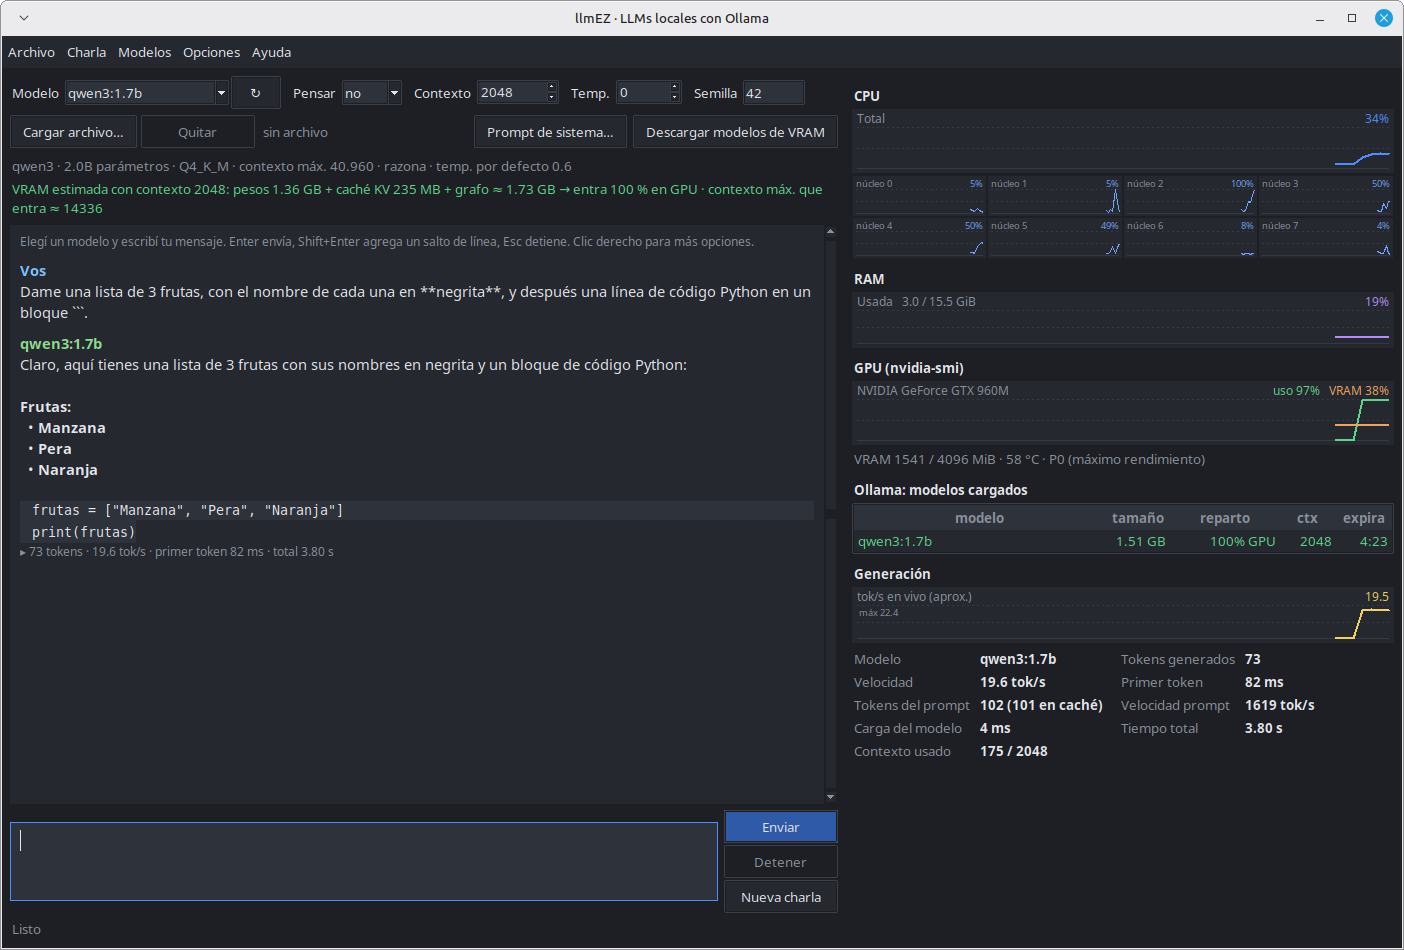
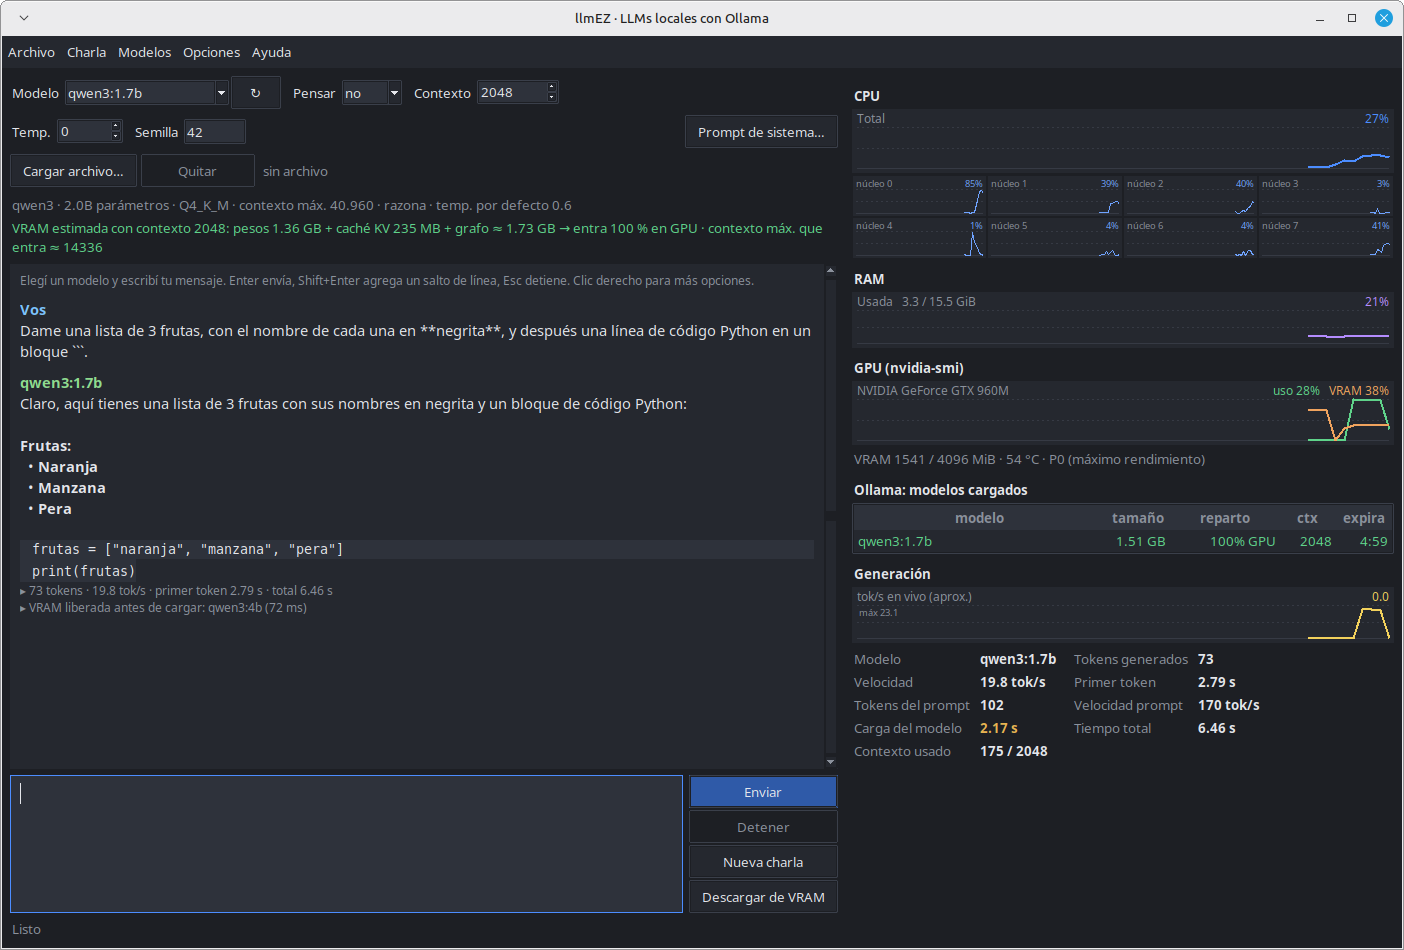
Ventana chica y configuración dañada: arreglos encontrados probando
- Con la ventana en el tamaño mínimo (1000x640) desaparecían la entrada
  y los botones Enviar/Detener: ahora se anclan abajo antes que el área
  de charla. Los controles de arriba pasan a tres filas cortas y
  'Descargar de VRAM' va a la columna de botones.
- El monitor tiene barra de desplazamiento cuando no entra a lo alto
  (la rueda del mouse solo lo mueve con el puntero encima).
- Un settings.json con tipos inválidos (geometría basura, 'sí' en lugar
  de true, null) impedía arrancar: cada valor se valida contra el tipo
  del valor por defecto y se descarta si no corresponde.
- Se restaura solo el tamaño de la ventana, no la posición (podía caer
  en un monitor que ya no está).
- Capturas del README actualizadas.

diff --git a/llmez/chat_panel.py b/llmez/chat_panel.py
@@ -117,32 +117,32 @@ class ChatPanel(ttk.Frame):
         self.ctx_var = tk.StringVar(value=str(s["num_ctx"]))
         self.ctx_spin = ttk.Spinbox(row1, textvariable=self.ctx_var, width=7,
                                     values=C.NUM_CTX_CHOICES)
-        self.ctx_spin.pack(side="left", padx=(4, 10))
+        self.ctx_spin.pack(side="left", padx=(4, 0))
         self.ctx_var.trace_add("write", lambda *a: self.refresh_estimate())
 
-        ttk.Label(row1, text="Temp.").pack(side="left")
+        # Tres filas cortas en vez de dos largas: entran en la ventana mínima.
+        row2 = ttk.Frame(self)
+        row2.pack(fill="x", pady=(6, 0))
+        ttk.Label(row2, text="Temp.").pack(side="left")
         self.temp_var = tk.StringVar(value=s["temperature"])
-        self.temp_spin = ttk.Spinbox(row1, textvariable=self.temp_var, width=5,
+        self.temp_spin = ttk.Spinbox(row2, textvariable=self.temp_var, width=5,
                                      from_=0.0, to=2.0, increment=0.1, format="%.1f")
         self.temp_spin.pack(side="left", padx=(4, 10))
-
-        ttk.Label(row1, text="Semilla").pack(side="left")
+        ttk.Label(row2, text="Semilla").pack(side="left")
         self.seed_var = tk.StringVar(value=s["seed"])
-        self.seed_entry = ttk.Entry(row1, textvariable=self.seed_var, width=7)
+        self.seed_entry = ttk.Entry(row2, textvariable=self.seed_var, width=7)
         self.seed_entry.pack(side="left", padx=(4, 0))
+        ttk.Button(row2, text="Prompt de sistema…",
+                   command=self.edit_system_prompt).pack(side="right")
 
-        row2 = ttk.Frame(self)
-        row2.pack(fill="x", pady=(6, 2))
-        ttk.Button(row2, text="Cargar archivo…", command=self.load_file).pack(side="left")
-        self.remove_file_btn = ttk.Button(row2, text="Quitar", command=self.remove_file,
+        row3 = ttk.Frame(self)
+        row3.pack(fill="x", pady=(6, 2))
+        ttk.Button(row3, text="Cargar archivo…", command=self.load_file).pack(side="left")
+        self.remove_file_btn = ttk.Button(row3, text="Quitar", command=self.remove_file,
                                           state="disabled")
         self.remove_file_btn.pack(side="left", padx=(4, 6))
-        self.file_label = ttk.Label(row2, text="sin archivo", style="Muted.TLabel")
+        self.file_label = ttk.Label(row3, text="sin archivo", style="Muted.TLabel")
         self.file_label.pack(side="left")
-        ttk.Button(row2, text="Descargar modelos de VRAM",
-                   command=self.unload_models).pack(side="right")
-        ttk.Button(row2, text="Prompt de sistema…",
-                   command=self.edit_system_prompt).pack(side="right", padx=6)
 
         # Info del modelo y estimación de VRAM
         self.info_label = ttk.Label(self, text="", style="Muted.TLabel", anchor="w")
@@ -186,28 +186,31 @@ class ChatPanel(ttk.Frame):
         self.chat.bind("<Button-3>", lambda e: self.menu.tk_popup(e.x_root, e.y_root))
 
         # Entrada y botones
+        # La entrada y el estado se anclan abajo *antes* que el área de la charla:
+        # si falta alto, se achica la charla y no desaparecen los botones.
+        self.status = ttk.Label(self, text="", style="Muted.TLabel", anchor="w")
+        self.status.pack(side="bottom", fill="x", pady=(4, 0), before=box)
         bottom = ttk.Frame(self)
-        bottom.pack(fill="x", pady=(6, 0))
+        bottom.pack(side="bottom", fill="x", pady=(6, 0), before=box)
         self.input = tk.Text(bottom, height=3, wrap="word", bg=C.FIELD, fg=C.FG,
                              font=text_font, insertbackground=C.FG, relief="flat",
                              padx=8, pady=6, highlightthickness=1,
                              highlightbackground=C.BORDER, highlightcolor=C.ACCENT)
-        self.input.pack(side="left", fill="x", expand=True)
         self.input.bind("<Return>", self._on_enter)
         self.input.bind("<Escape>", lambda e: self.stop())
         self.chat.bind("<Escape>", lambda e: self.stop())
 
         btns = ttk.Frame(bottom)
-        btns.pack(side="left", padx=(6, 0), fill="y")
+        btns.pack(side="right", padx=(6, 0), fill="y")  # antes que la entrada, que se expande
+        self.input.pack(side="left", fill="both", expand=True)
         self.send_btn = ttk.Button(btns, text="Enviar", style="Accent.TButton",
                                    command=self.send)
         self.send_btn.pack(fill="x")
         self.stop_btn = ttk.Button(btns, text="Detener", command=self.stop, state="disabled")
         self.stop_btn.pack(fill="x", pady=2)
         ttk.Button(btns, text="Nueva charla", command=self.new_chat).pack(fill="x")
-
-        self.status = ttk.Label(self, text="", style="Muted.TLabel", anchor="w")
-        self.status.pack(fill="x", pady=(4, 0))
+        ttk.Button(btns, text="Descargar de VRAM", command=self.unload_models).pack(
+            fill="x", pady=(2, 0))
         self.input.focus_set()
 
     def _append(self, text, *tags):

diff --git a/llmez/monitor_panel.py b/llmez/monitor_panel.py
@@ -8,6 +8,7 @@ import psutil
 from . import config as C
 from .chat_panel import fmt_seconds
 from .widgets.line_chart import LineChart
+from .widgets.scroll_frame import ScrollFrame
 
 GIB = 1024 ** 3
 PSTATES = {"P0": "máximo rendimiento", "P2": "alto", "P5": "medio", "P8": "reposo",
@@ -23,14 +24,16 @@ def _expires_in(iso):
         return None
 
 
-class MonitorPanel(ttk.Frame):
+class MonitorPanel(ScrollFrame):
+    """Los widgets van en self.body: con la ventana chica aparece una barra de desplazamiento."""
+
     def __init__(self, master):
         super().__init__(master, padding=(4, 8, 8, 8))
 
         self._section("CPU")
-        self.cpu_chart = LineChart(self, "Total", [("total", C.CPU_COLOR)], height=64)
+        self.cpu_chart = LineChart(self.body, "Total", [("total", C.CPU_COLOR)], height=64)
         self.cpu_chart.pack(fill="x")
-        cores = ttk.Frame(self)
+        cores = ttk.Frame(self.body)
         cores.pack(fill="x", pady=(2, 0))
         cols = 4
         self.core_charts = []
@@ -41,19 +44,19 @@ class MonitorPanel(ttk.Frame):
             self.core_charts.append(ch)
 
         self._section("RAM")
-        self.ram_chart = LineChart(self, "Usada", [("ram", C.RAM_COLOR)], height=56)
+        self.ram_chart = LineChart(self.body, "Usada", [("ram", C.RAM_COLOR)], height=56)
         self.ram_chart.pack(fill="x")
 
         self._section("GPU (nvidia-smi)")
-        self.gpu_chart = LineChart(self, "", [("uso", C.GPU_COLOR), ("VRAM", C.VRAM_COLOR)],
+        self.gpu_chart = LineChart(self.body, "", [("uso", C.GPU_COLOR), ("VRAM", C.VRAM_COLOR)],
                                    height=64)
         self.gpu_chart.pack(fill="x")
-        self.gpu_info = ttk.Label(self, text="esperando datos…", style="Muted.TLabel")
+        self.gpu_info = ttk.Label(self.body, text="esperando datos…", style="Muted.TLabel")
         self.gpu_info.pack(fill="x", pady=(2, 0))
 
         self._section("Ollama: modelos cargados")
         cols = ("modelo", "tamaño", "reparto", "ctx", "expira")
-        self.tree = ttk.Treeview(self, columns=cols, show="headings", height=3,
+        self.tree = ttk.Treeview(self.body, columns=cols, show="headings", height=3,
                                  selectmode="none")
         widths = {"modelo": 120, "tamaño": 64, "reparto": 110, "ctx": 56, "expira": 56}
         for c in cols:
@@ -66,10 +69,10 @@ class MonitorPanel(ttk.Frame):
         self.tree.pack(fill="x")
 
         self._section("Generación")
-        self.tok_chart = LineChart(self, "tok/s en vivo (aprox.)", [("tok/s", C.TOKS_COLOR)],
+        self.tok_chart = LineChart(self.body, "tok/s en vivo (aprox.)", [("tok/s", C.TOKS_COLOR)],
                                    y_max=None, fmt="{:.1f}", height=56)
         self.tok_chart.pack(fill="x")
-        grid = ttk.Frame(self)
+        grid = ttk.Frame(self.body)
         grid.pack(fill="x", pady=(4, 0))
         self.stat_labels = {}
         keys = ["Modelo", "Tokens generados", "Velocidad", "Primer token",
@@ -84,7 +87,7 @@ class MonitorPanel(ttk.Frame):
             self.stat_labels[key] = val
 
     def _section(self, title):
-        ttk.Label(self, text=title, style="Section.TLabel").pack(fill="x", pady=(8, 2))
+        ttk.Label(self.body, text=title, style="Section.TLabel").pack(fill="x", pady=(8, 2))
 
     # ---------------------------------------------------------------
     def update_sample(self, s):

diff --git a/llmez/widgets/scroll_frame.py b/llmez/widgets/scroll_frame.py
@@ -1,0 +1,48 @@
+"""Frame con barra de desplazamiento vertical que aparece solo si hace falta."""
+import tkinter as tk
+from tkinter import ttk
+
+from .. import config as C
+
+
+class ScrollFrame(ttk.Frame):
+    """Los hijos van en `self.body`. Si no entran a lo alto, aparece la barra
+    y la rueda del mouse desplaza el contenido (solo con el puntero encima)."""
+
+    def __init__(self, master, **body_options):
+        super().__init__(master)
+        self.canvas = tk.Canvas(self, bg=C.BG, highlightthickness=0, bd=0)
+        self.scrollbar = ttk.Scrollbar(self, orient="vertical", command=self.canvas.yview)
+        self.canvas.configure(yscrollcommand=self.scrollbar.set)
+        self.body = ttk.Frame(self.canvas, **body_options)
+        self._window = self.canvas.create_window(0, 0, window=self.body, anchor="nw")
+        self.canvas.pack(side="left", fill="both", expand=True)
+        self._bar_visible = False
+        self.body.bind("<Configure>", lambda e: self._update())
+        self.canvas.bind("<Configure>", lambda e: self._update())
+        for seq in ("<Button-4>", "<Button-5>", "<MouseWheel>"):
+            self.bind_all(seq, self._on_wheel, add="+")
+
+    def _update(self):
+        width, height = self.canvas.winfo_width(), self.canvas.winfo_height()
+        self.canvas.itemconfigure(self._window, width=width)
+        needed = self.body.winfo_reqheight()
+        self.canvas.configure(scrollregion=(0, 0, width, needed))
+        overflow = needed > height + 1
+        if overflow and not self._bar_visible:
+            self.scrollbar.pack(side="right", fill="y", before=self.canvas)
+        elif not overflow and self._bar_visible:
+            self.scrollbar.pack_forget()
+            self.canvas.yview_moveto(0)
+        self._bar_visible = overflow
+
+    def _on_wheel(self, event):
+        if not self._bar_visible:
+            return
+        widget = self.winfo_containing(event.x_root, event.y_root)
+        if widget is None or not str(widget).startswith(str(self)):
+            return  # la rueda es para otro widget (p. ej. el chat)
+        if event.num == 4 or getattr(event, "delta", 0) > 0:
+            self.canvas.yview_scroll(-2, "units")
+        else:
+            self.canvas.yview_scroll(2, "units")

diff --git a/llmez/settings.py b/llmez/settings.py
@@ -1,6 +1,7 @@
 """Preferencias persistentes en ~/.config/llmez/settings.json."""
 import json
 import os
+import re
 
 from . import config as C
 
@@ -23,14 +24,32 @@ def settings_path():
     return os.path.join(base, "llmez", "settings.json")
 
 
+_GEOMETRY = re.compile(r"^\d{2,5}x\d{2,5}([+-]-?\d{1,5}[+-]-?\d{1,5})?$")
+
+
+def _valid(key, value):
+    """El valor guardado tiene el mismo tipo que el de por defecto (y es razonable)."""
+    if type(value) is not type(DEFAULTS[key]):  # type(): True no cuenta como int
+        return False
+    if key == "geometry":
+        return bool(_GEOMETRY.match(value))
+    if key == "num_ctx":
+        return 128 <= value <= 1_048_576
+    return True
+
+
 def load(path=None):
-    """Devuelve DEFAULTS combinados con lo guardado. Un archivo roto no rompe la app."""
+    """Devuelve DEFAULTS combinados con lo guardado.
+
+    Un archivo roto o editado a mano no rompe la app: cada valor con tipo o
+    formato inválido se reemplaza por el de por defecto.
+    """
     data = dict(DEFAULTS)
     try:
         with open(path or settings_path(), encoding="utf-8") as f:
             saved = json.load(f)
         if isinstance(saved, dict):
-            data.update({k: v for k, v in saved.items() if k in DEFAULTS})
+            data.update({k: v for k, v in saved.items() if k in DEFAULTS and _valid(k, v)})
     except (OSError, ValueError):
         pass
     return data

diff --git a/tests/test_storage.py b/tests/test_storage.py
@@ -25,6 +25,25 @@ class SettingsTest(unittest.TestCase):
         self.assertEqual(loaded["num_ctx"], 4096)
         self.assertNotIn("basura", loaded)
 
+    def test_wrong_types_fall_back_to_defaults(self):
+        os.makedirs(os.path.dirname(self.path))
+        bad = {"geometry": "basura", "exclusive_vram": "sí", "unload_on_exit": None,
+               "num_ctx": "abc", "seed": [1, 2], "system_prompt": None, "loop_guard": 1,
+               "temperature": 5, "model": 42}
+        with open(self.path, "w") as f:
+            json.dump(bad, f)
+        self.assertEqual(settings.load(self.path), settings.DEFAULTS)
+
+    def test_valid_values_are_kept(self):
+        good = {"geometry": "1200x700+10+-5", "num_ctx": 4096, "loop_guard": False, "seed": "7"}
+        self.assertIsNone(settings.save(dict(settings.DEFAULTS, **good), self.path))
+        loaded = settings.load(self.path)
+        self.assertEqual({k: loaded[k] for k in good}, good)
+
+    def test_absurd_context_is_rejected(self):
+        self.assertIsNone(settings.save(dict(settings.DEFAULTS, num_ctx=12), self.path))
+        self.assertEqual(settings.load(self.path)["num_ctx"], settings.DEFAULTS["num_ctx"])
+
     def test_corrupt_file_does_not_break(self):
         os.makedirs(os.path.dirname(self.path))
         with open(self.path, "w") as f:

diff --git a/llmez/app.py b/llmez/app.py
@@ -47,7 +47,8 @@ class App:
         self.unload_on_exit_var = tk.BooleanVar(value=self.settings["unload_on_exit"])
         self.loop_guard_var = tk.BooleanVar(value=self.settings["loop_guard"])
         theme.apply(root)
-        root.geometry(self.settings["geometry"])
+        # Solo el tamaño: una posición guardada puede caer en un monitor que ya no está.
+        root.geometry(self.settings["geometry"].split("+")[0].split("-")[0])
 
         paned = ttk.PanedWindow(root, orient="horizontal")
         paned.pack(fill="both", expand=True)
